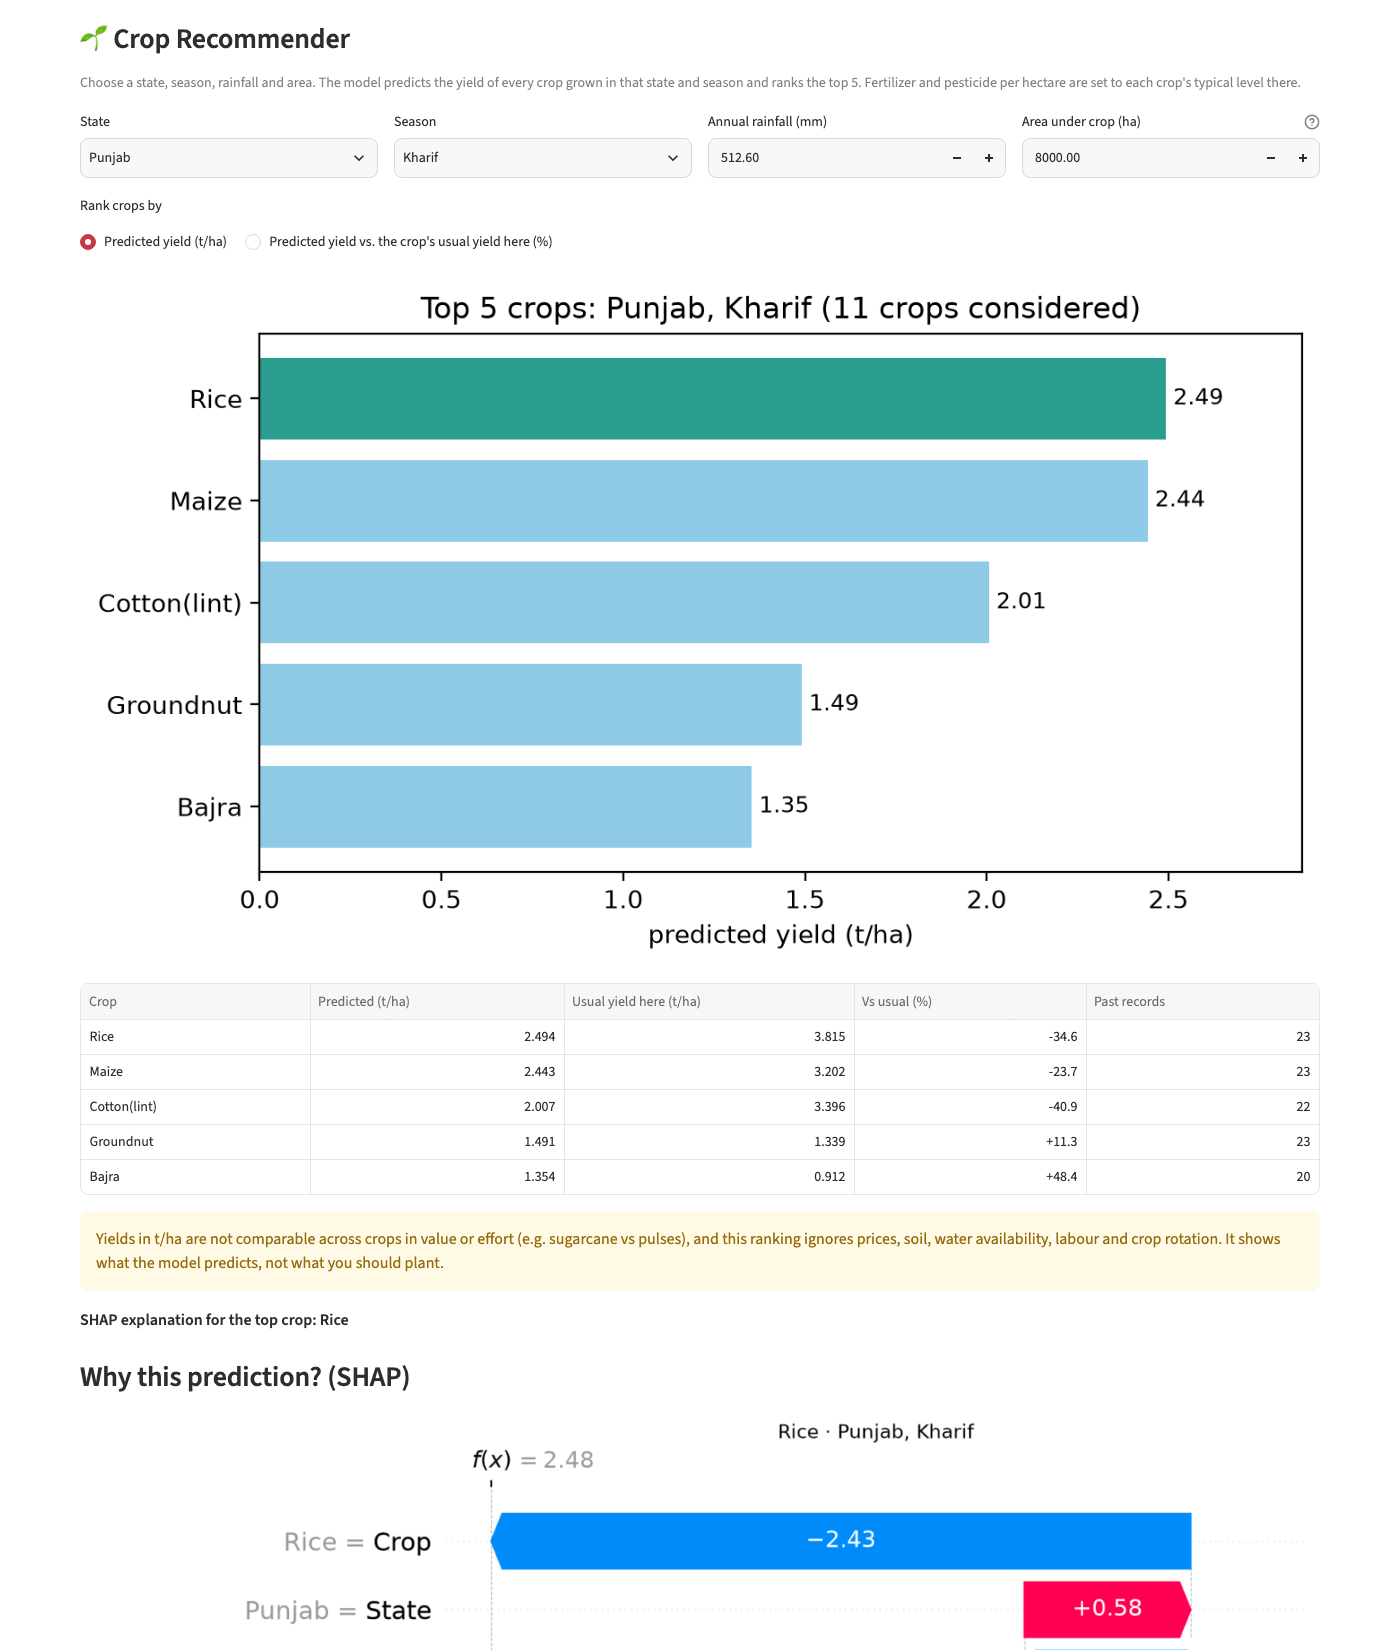
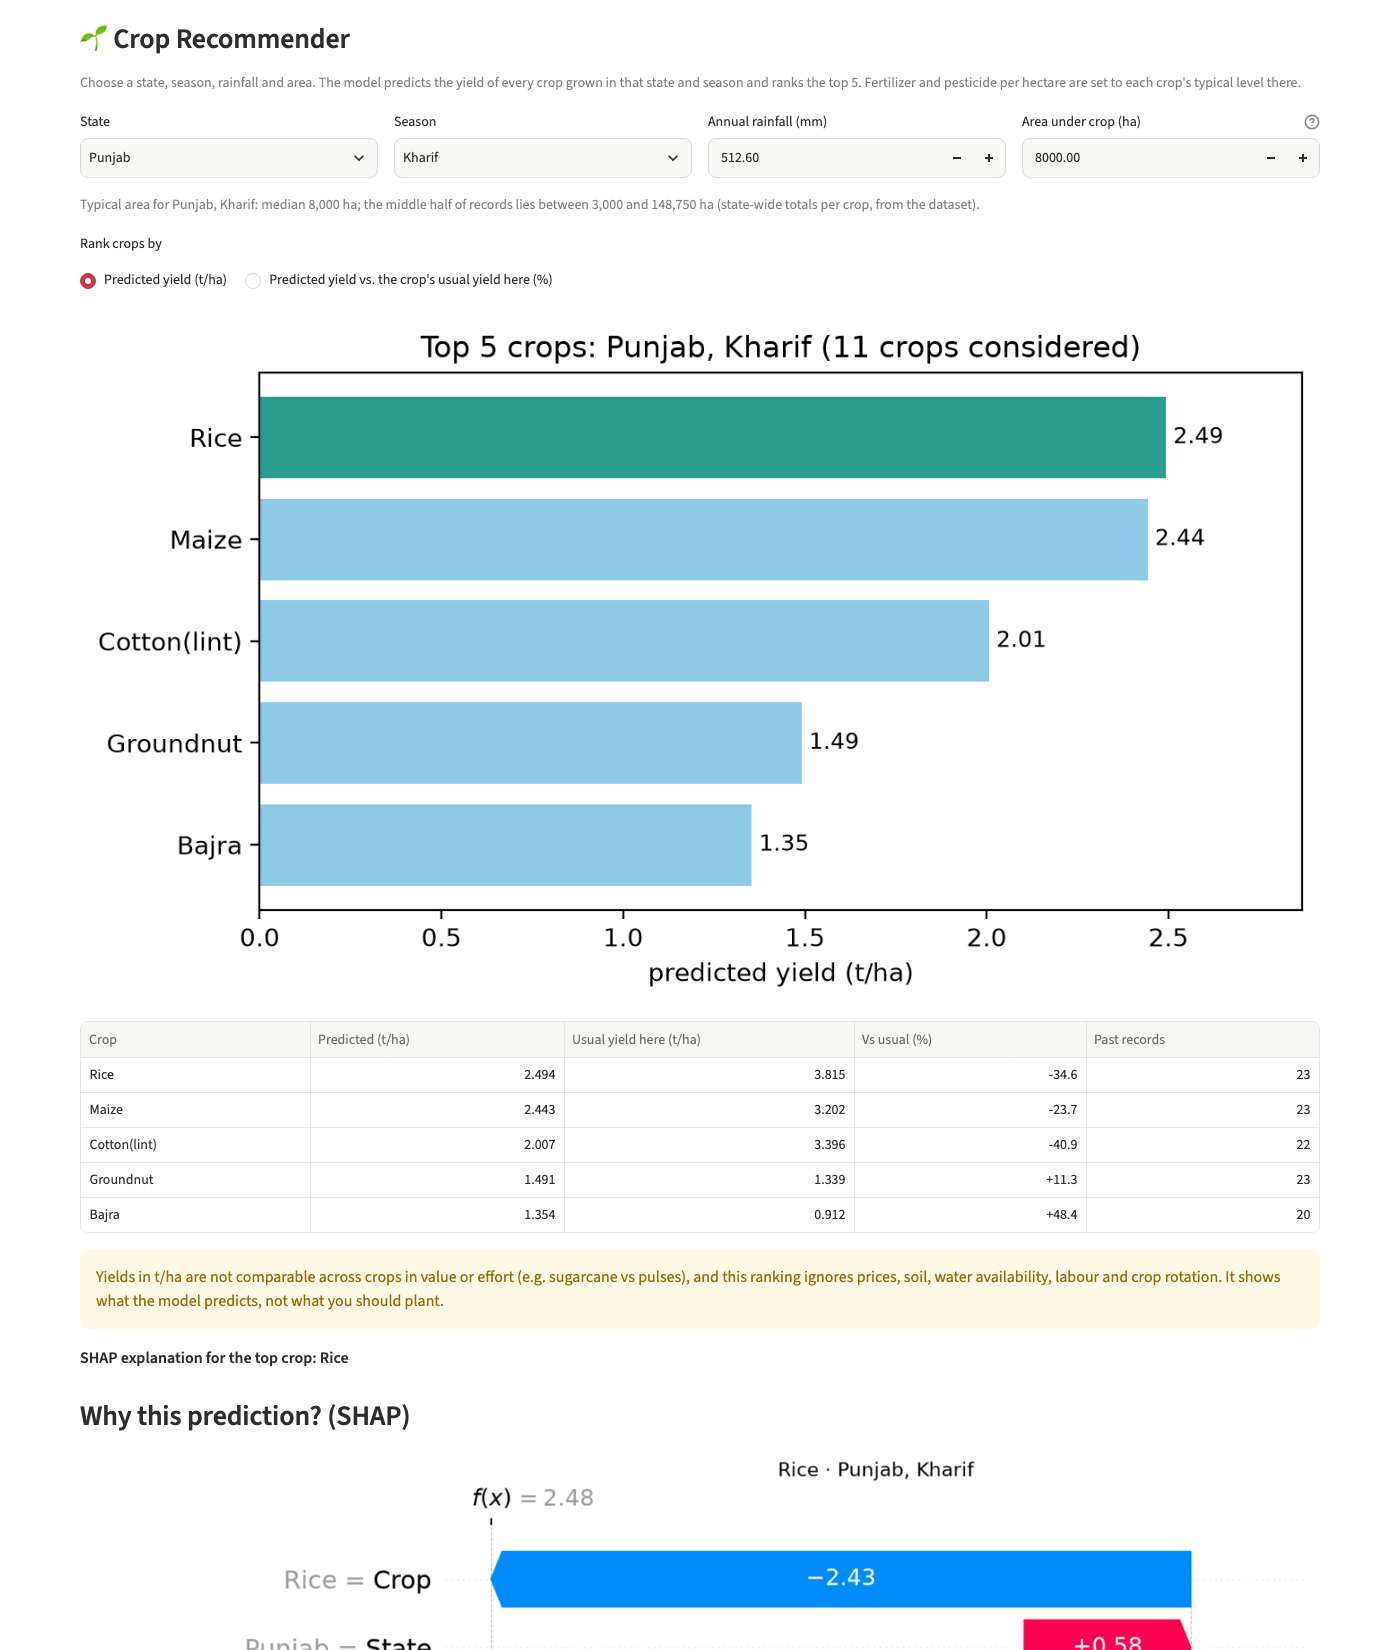
Recommender: show typical Area range for the selected state and season; Climate Scenarios: default to the crop with intuitive curves (India Cassava); tests, docs, screenshots

diff --git a/src/i18n.py b/src/i18n.py
@@ -93,6 +93,9 @@ _add("rec_title", "🌱 Crop Recommender", "🌱 फसल सुझावक")
 _add("rec_caption",
      "Choose a state, season, rainfall and area. The model predicts the yield of every crop grown in that state and season and ranks the top 5. Fertilizer and pesticide per hectare are set to each crop's typical level there.",
      "राज्य, सीज़न, वर्षा और क्षेत्रफल चुनें। मॉडल उस राज्य और सीज़न में उगाई जाने वाली हर फसल की उपज का अनुमान लगाकर शीर्ष 5 फसलों को क्रम से दिखाता है। प्रति हेक्टेयर उर्वरक और कीटनाशक वहाँ उस फसल के सामान्य स्तर पर रखे गए हैं।")
+_add("rec_area_caption",
+     "Typical area for {state}, {season}: median {med} ha; the middle half of records lies between {lo} and {hi} ha (state-wide totals per crop, from the dataset).",
+     "{state}, {season} के लिए सामान्य क्षेत्रफल: माध्यिका {med} ha; आधे रिकॉर्ड {lo} से {hi} ha के बीच हैं (डेटासेट में हर फसल के राज्य-स्तरीय कुल)।")
 _add("rec_rank_by", "Rank crops by", "फसलों को इस आधार पर क्रम दें")
 _add("rec_rank_pred", "Predicted yield (t/ha)", "अनुमानित उपज (t/ha)")
 _add("rec_rank_pct", "Predicted yield vs. the crop's usual yield here (%)", "अनुमानित उपज, यहाँ उस फसल की सामान्य उपज की तुलना में (%)")

diff --git a/app.py b/app.py
@@ -282,8 +282,11 @@ with tab2:
     rkey = f"rec_rain_{rstate}_{rseason}"
     st.session_state.setdefault(rkey, float(rsub[C.I_RAIN].median()))
     rrain = r3.number_input(tr("rain_annual_mm"), 0.0, 7000.0, step=50.0, key=rkey)
-    rarea = r4.number_input(tr("area_crop"), 1.0, 5e7, float(rsub[C.I_AREA].median()), step=1000.0,
+    # default Area = median for this state AND season; the key changes with them, so the default refreshes
+    a_q1, a_med, a_q3 = (float(v) for v in rsub[C.I_AREA].quantile([0.25, 0.5, 0.75]))
+    rarea = r4.number_input(tr("area_crop"), 1.0, 5e7, a_med, step=1000.0,
                             key=f"rec_area_{rstate}_{rseason}", help=tr("area_help"))
+    st.caption(tr("rec_area_caption", state=rstate, season=rseason, med=f"{a_med:,.0f}", lo=f"{a_q1:,.0f}", hi=f"{a_q3:,.0f}"))
     rank_by = stable_radio(tr("rec_rank_by"), ["pred", "pct"], "rec_rank",
                            lambda v: tr("rec_rank_pred" if v == "pred" else "rec_rank_pct"))
     rec = scenarios.recommend(iex.fitted, idf, rstate, rseason, rrain, rarea, last_year)
@@ -318,7 +321,7 @@ with tab_sc:
     k1, k2, k3 = st.columns(3)
     if use_global:
         country = pick(tr("country"), gmeta["countries"], "sc_country", "India", k1)
-        crop_s = pick(tr("crop"), sorted(gdf[gdf[C.G_COUNTRY] == country][C.G_CROP].unique()), "sc_crop", "Wheat", k2)
+        crop_s = pick(tr("crop"), sorted(gdf[gdf[C.G_COUNTRY] == country][C.G_CROP].unique()), "sc_crop", "Cassava", k2)   # default chosen because its curves behave intuitively (see README)
         base = scenarios.global_baseline(gdf, country, crop_s, gmeta["year_range"][1])
         model, feats, rain_col, temp_col, unit = gex.fitted, C.G_FEATURES, C.G_RAIN, C.G_TEMP, "hg/ha"
         where = f"{crop_s} · {country}"

diff --git a/tests/test_app.py b/tests/test_app.py
@@ -70,3 +70,20 @@ def test_no_english_leaks_in_hindi_mode(app_hi):
 def test_language_switch_keeps_choices(app_hi):
     assert app_hi.radio(key="sc_mode__hi").value == "india"          # radio selection survives translation
     assert app_hi.select_slider(key="i_outlook__hi").value == "high"  # drought click survives too
+
+
+def test_recommender_area_default_follows_state_and_season(app_en):
+    """Default Area = median area of the selected state AND season, and it refreshes when they change."""
+    import pandas as pd
+    from src import india
+    df = india.clean(verbose=False)
+
+    def median(state, season):
+        return float(df[(df.State == state) & (df.Season == season)].Area.median())
+
+    at = app_en
+    assert at.number_input(key="rec_area_Punjab_Kharif").value == pytest.approx(median("Punjab", "Kharif"))
+    at.selectbox(key="rec_state").set_value("Maharashtra").run()
+    at.selectbox(key="rec_season").set_value("Rabi").run()
+    assert at.number_input(key="rec_area_Maharashtra_Rabi").value == pytest.approx(median("Maharashtra", "Rabi"))
+    assert any("Typical area for Maharashtra, Rabi" in c.value for c in at.caption)

diff --git a/tests/test_scenarios.py b/tests/test_scenarios.py
@@ -75,3 +75,13 @@ def test_every_ui_string_has_both_languages():
 def test_translation_formatting():
     assert "{" not in i18n.tr("rec_chart_title", "hi", state="Punjab", season="Kharif", n=11)
     assert i18n.tr("sc_rain_line", "hi", r=-30) == "वर्षा -30%"
+
+
+def test_default_scenario_crop_behaves_intuitively(gstuff):
+    """The app's default scenario (India, Cassava): less rain and +3 °C both lower the predicted yield."""
+    model, df, meta = gstuff
+    base = S.global_baseline(df, "India", "Cassava", meta["year_range"][1])
+    _, grid = S.climate_grid(model, base, C.G_FEATURES, C.G_RAIN, C.G_TEMP)
+    assert (grid.loc[-30] < 0).all()          # 30 % less rain: below today at every warming level
+    assert grid.loc[0, 3.0] < 0               # +3 °C at unchanged rain: below today
+    assert grid.loc[-30, 3.0] < grid.loc[0, 0.0]   # dry AND hot is worse than today

diff --git a/REPORT.md b/REPORT.md
@@ -138,11 +138,13 @@ The same pattern holds: tuned XGBoost R² 0.970 (random) vs 0.920 (time), RMSE 2
 Rules 2, 4 and 6 only fire because earlier rules derived intermediate facts – this multi-step inference is what makes it more than a lookup table.
 
 ## 10. Decision support features
-The Streamlit application (`app.py`) turns the models into three decision-support tools; their logic is in `src/scenarios.py` and `src/i18n.py` and is covered by unit tests (23 tests in total, all passing: 10 for the expert system, 9 for scenarios, the recommender and the translations, and 4 end-to-end tests that drive the app in English and Hindi).
+The Streamlit application (`app.py`) turns the models into three decision-support tools; their logic is in `src/scenarios.py` and `src/i18n.py` and is covered by unit tests (25 tests in total, all passing: 10 for the expert system, 10 for scenarios, the recommender and the translations, and 5 end-to-end tests that drive the app in English and Hindi).
 
 **10.1 Climate scenarios.** For a chosen country-crop (global model) or state-crop-season (India model), the "today" baseline is the model's prediction using the location's most recent observed climate (global: mean of the last three years; India: median of the last five years, year 2019, the last year with at least 100 records). Temperature is raised by 0 to +3 °C in 0.5 °C steps and rainfall scaled by −30 % to +30 % in 15 % steps (sliders allow 5 % steps), and the predicted yield change versus baseline is plotted across all scenarios. Example (global model, wheat in India; baseline 28,493 hg/ha at 1,083 mm and 26.2 °C): −30 % rainfall at unchanged temperature gives **+17.0 %**, +3 °C at unchanged rainfall gives **−13.2 %**, and +3 °C with +30 % rainfall gives **−20.8 %**. For rice in Punjab (India model, baseline 4.46 t/ha, 585.5 mm; no temperature input exists in that dataset) the change is −2.9 % at −30 % rainfall, −1.4 % at −15 %, −6.7 % at +15 % and −6.4 % at +30 %. These results are **non-monotonic and partly counter-intuitive** (less rain gives a higher wheat yield): the models learned associations across many countries, states and years from annual averages, and gradient-boosted trees respond in steps. The app therefore labels the tab as showing what the model associates with climate, not a guaranteed forecast.
 
-**10.2 Crop recommender.** Given a state, season, annual rainfall and area, the app predicts the yield of every crop with at least five historical records in that state and season, using each crop's own typical (median) fertilizer and pesticide per hectare, and displays the top five as a ranked bar chart, optionally ranked by the percentage difference from the crop's usual yield, together with a SHAP waterfall and sentence for the top crop. Example (Punjab, Kharif, 512.6 mm, 8,000 ha, 2019; 11 crops considered): Rice 2.494, Maize 2.443, Cotton (lint) 2.007, Groundnut 1.491 and Bajra 1.354 t/ha. Rice's prediction is 34.6 % below its usual Punjab yield (3.815 t/ha) because the *Area* feature in the dataset is the state-wide area under a crop (millions of hectares for Punjab rice), so 8,000 ha is far outside the training range – an example of why user-supplied farm sizes must be interpreted with care. The tool ranks predicted yield only; yields are not comparable across crops in price, water need or effort, so the app states that it shows what the model predicts, not what to plant.
+*Default crop.* The tab opens on **India · Cassava** because it is the only one of the eight crops the global model has for India whose curves go in the intuitive direction at the extremes: baseline 336,630 hg/ha (1,083 mm, 26.2 °C); 30 % less rainfall gives −1.78 %, +3 °C gives −0.60 %, and both together −2.41 %. The effects are small (under 3 %) and not perfectly monotone (extra rainfall of +15 % / +30 % also lowers the prediction, by −1.48 % / −2.18 %), so even this default is only *more* sensible, not proof of a causal climate response. For every other India crop the model predicts a **higher** yield with 30 % less rain (rice +9.0 %, wheat +17.0 %, potatoes +14.0 %, maize +18.1 %, sorghum +22.5 %, soybeans +25.2 %, sweet potatoes +52.8 %), reflecting cross-country patterns (drier, more heavily irrigated countries with higher yields) rather than agronomy. Choosing the best-behaved crop as the default is a presentation choice and does not change this limitation; a test (`test_default_scenario_crop_behaves_intuitively`) guards it.
+
+**10.2 Crop recommender.** Given a state, season, annual rainfall and area, the app predicts the yield of every crop with at least five historical records in that state and season, using each crop's own typical (median) fertilizer and pesticide per hectare, and displays the top five as a ranked bar chart, optionally ranked by the percentage difference from the crop's usual yield, together with a SHAP waterfall and sentence for the top crop. The default Area is the median area over all records of the selected state and season (it refreshes when either changes) and a caption shows the typical range – for Punjab in Kharif the median is 8,000 ha and the middle half of records lies between 3,000 and 148,750 ha, i.e. the figure is dominated by small crops, which is why the caption shows the spread. Example (Punjab, Kharif, 512.6 mm, 8,000 ha, 2019; 11 crops considered): Rice 2.494, Maize 2.443, Cotton (lint) 2.007, Groundnut 1.491 and Bajra 1.354 t/ha. Rice's prediction is 34.6 % below its usual Punjab yield (3.815 t/ha) because the *Area* feature in the dataset is the state-wide area under a crop (millions of hectares for Punjab rice), so 8,000 ha is far below Punjab rice's training range – an example of why user-supplied farm sizes must be interpreted with care. The tool ranks predicted yield only; yields are not comparable across crops in price, water need or effort, so the app states that it shows what the model predicts, not what to plant.
 
 **10.3 Full Hindi interface (English / हिन्दी).** Selecting हिन्दी translates **all visible app text** into simple Hindi: tab names, headings, input labels, buttons, metric labels, notes, captions, table headers, the expert-system advice, facts and reasoning trace, the SHAP explanation sentence, and the titles, axes and legends of every chart. Crop, country, state and season names, numbers and units (mm/year, °C, t/ha, hg/ha, kg/ha) are deliberately left as in the datasets. Every string is stored once in a single dictionary (`src/i18n.py`; the 16 Hindi rule texts are keys `rule.R1`...`rule.R16`). Charts are drawn by language-aware functions (`src/charts.py`) using matplotlib's text shaping with a Devanagari font (Kohinoor Devanagari on the development machine; Noto Sans Devanagari and Devanagari Sangam MN are also tried); if no such font is installed the chart labels stay in English rather than rendering as empty boxes. Two implementation details mattered: Streamlit derives a widget's identity from its labels, so translated radios and the temperature select-slider initially lost their selection when the language was switched (found by inspecting the live browser page); they now keep their state in `session_state` under a per-language key. Tests check that every dictionary entry has both languages, that every rule fact has a translation, and that no English words leak into the Hindi interface (names and acronyms excepted). The aim is accessibility for Hindi-speaking farmers and extension workers; the translations are simple, were drafted with AI assistance, and have not been reviewed by an agronomist or professional translator.
 

diff --git a/README.md b/README.md
@@ -45,7 +45,7 @@ brew install libomp
 ```bash
 python -m src.train          # global models: comparison, tuning, saves models/best_model.joblib (~6 min)
 python -m src.india          # India models: saves models/india_model.joblib (~5 min)
-python -m pytest -q          # 23 tests: expert system, scenarios/recommender, translations, end-to-end app (English + Hindi)
+python -m pytest -q          # 25 tests: expert system, scenarios/recommender, translations, end-to-end app (English + Hindi)
 streamlit run app.py         # interactive demo
 # execute notebooks (outputs are saved in the .ipynb files)
 cd notebooks && jupyter nbconvert --to notebook --execute --inplace 01_eda.ipynb 02_modeling.ipynb 03_xai.ipynb 04_india.ipynb
@@ -143,7 +143,9 @@ Beyond a single prediction, the app offers three decision-support tools. All of 
 | **Crop Recommender** (in *India Insights*) | Pick state, season, rainfall and area. Predicts yield for every crop grown in that state and season, shows the top 5 as a ranked bar chart (ranked by predicted t/ha, or by % above the crop's usual yield there), and explains the top crop with SHAP. |
 | **Language toggle** (English / हिन्दी) | Translates **all visible app text** into simple Hindi: tab names, headings, input labels, buttons, metric labels, notes, captions, table headers, the expert-system advice and reasoning trace, the SHAP sentence, and the titles/axes/legends of every chart. Crop, country and state names, numbers and units (mm/year, °C, t/ha, hg/ha, kg/ha) stay as in the data. All strings live in one dictionary, `src/i18n.py`. Charts use a Devanagari font (Kohinoor Devanagari, Noto Sans Devanagari or Devanagari Sangam MN, whichever is installed); if none is found the chart labels fall back to English instead of showing boxes. |
 
-Honest caveats (also shown in the app): the models learned patterns across many countries/states and years, so scenario curves can look counter-intuitive (e.g. for India wheat the global model predicts +17.0 % at −30 % rainfall and −13.2 % at +3 °C with unchanged rainfall); tree models change in steps; in the India data *Area* is the total area under a crop in a whole state, so single-farm sizes are out of range; yields in t/ha are not comparable across crops in value or effort, and the recommender ignores prices, soil, water and rotation.
+The scenario tab opens on **India · Cassava** because it is the only crop the global model has for India whose curves go the intuitive way at the extremes (30 % less rain: −1.78 %; +3 °C: −0.60 %; both: −2.41 %) – the effects are small, and for every other India crop the model predicts a *higher* yield with less rain, so this default is a presentation choice, not evidence. The recommender's default Area is the median for the selected state and season, with a caption showing the typical range (Punjab, Kharif: median 8,000 ha, middle half 3,000 to 148,750 ha).
+
+Honest caveats (also shown in the app): the models learned patterns across many countries/states and years, so scenario curves can look counter-intuitive (e.g. for India wheat, a non-default crop, the global model predicts +17.0 % at −30 % rainfall and −13.2 % at +3 °C with unchanged rainfall); tree models change in steps; in the India data *Area* is the total area under a crop in a whole state, so single-farm sizes are out of range; yields in t/ha are not comparable across crops in value or effort, and the recommender ignores prices, soil, water and rotation.
 
 | Climate Scenarios | Crop Recommender | Model Evaluation |
 |---|---|---|
